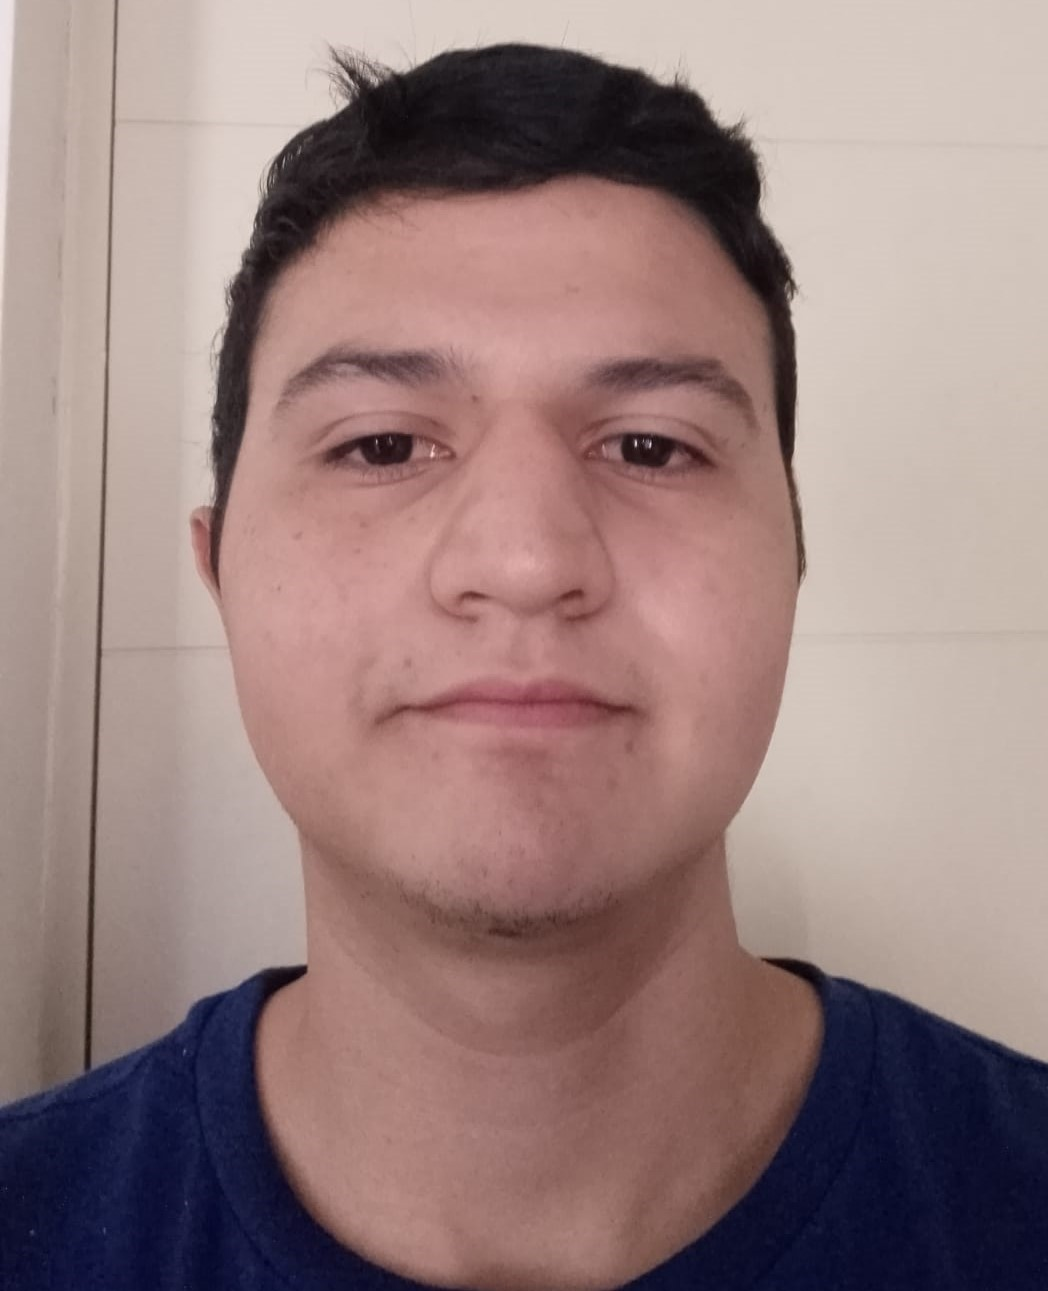
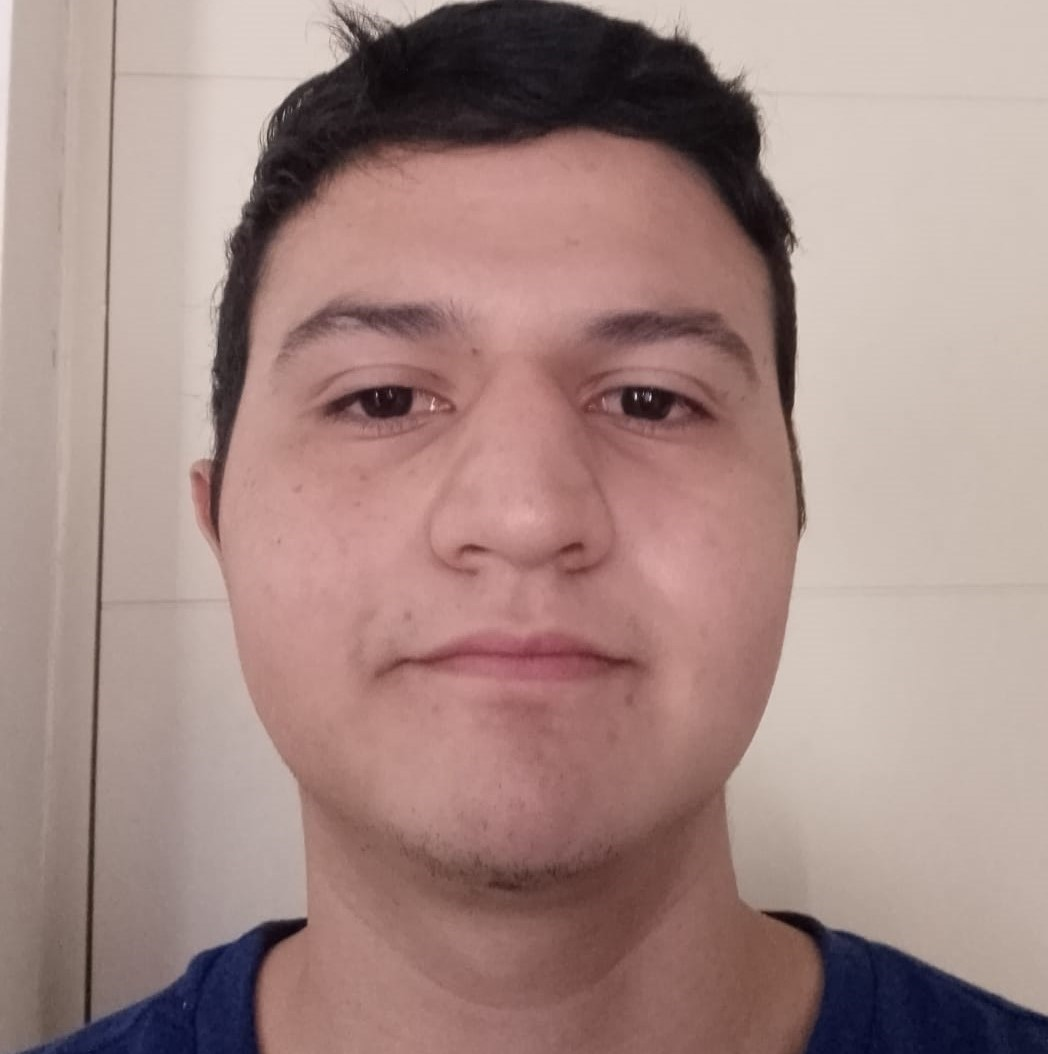
CV secciones terminadas

diff --git a/08-HTML/homework/CV/index.html b/08-HTML/homework/CV/index.html
@@ -1,37 +1,171 @@
 <!DOCTYPE html>
 <html>
-    <head>
-        <link rel="stylesheet" href="stylesCV.css">
-    </head>
-    <body>
-        <div id="header">
-            
-            <img src="" alt="">
-            
-            <h1 style="margin-bottom: 10px;">David Rangel</h1>
 
-            <span>Estudiante</span>
+<head>
+    <link rel="stylesheet" href="stylesCV.css">
+    <meta charset="utf-8">
+</head>
 
+<body>
+    <div id="header">
+
+        <div class="imagenCircular">
+            <img src="imagenes/Yo.jpeg" alt="">
+        </div>
+
+        <h1>David Rangel</h1>
+
+        <span>Estudiante</span>
+
+        <span>
+            <a href="mailto:david02rangel@gmail.com">david02rangel@gmail.com</a>
+        </span>
+    </div>
+
+
+    <nav>
+        <ul class="navegador">
+            <li><a href="#perfil">Descripción Personal</a></li>
+            <li><a href="#educacion">Educación</a></li>
+            <li><a href="#expLaborales">Experiencias Laborales</a></li>
+            <li><a href="#skills">Skills</a></li>
+            <li><a href="#hobbies">Hobbies</a></li>
+        </ul>
+    </nav>
+
+    <main>
+
+        <div id="quienSoy" class="seccion">
             <span>
-                <a href="mailto:david02rangel@gmail.com">david02rangel@gmail.com</a>
+                Soy estudiante del técnico superior Analista Programador de IPLeones, actualmente cursando en el 2do
+                año. Esta página es una documentación de mi trabajo y persona.
             </span>
         </div>
 
 
-        <nav>
-            <ul class="navegador">
-                <li><a href="">Descripción Personal</a></li>
-                <li><a href="">Educación</a></li>
-                <li><a href="">Experiencias Laborales</a></li>
-                <li><a href="">Skills</a></li>
-                <li><a href="">Hobbies</a></li>
-            </ul>
-        </nav>
+
+        <div id="perfil" class="seccion">
+            <div class="texto">
+                <h2>Descripción Personal</h2>
+                <p>
+                    Soy oriundo de Barquisimeto, Venezuela. Como persona, me identifico como alguien responsable,
+                    socialmente proactivo y eficiente. En mi área profesional, soy un programador junior orientado a los
+                    detalles que ofrece excelentes habilidades analíticas y la importante capacidad de funcionar bien
+                    tanto de forma independiente como en entornos de equipo de ritmo rápido.
+                </p>
+            </div>
+        </div>
+
+
+
+
+        <div id="educacion" class="seccion">
+            <div class="texto">
+                <h2>Formación Educativa</h2>
+                <p>
+                <ul>
+                    <li>Educación Media General en Ciencias, culminada en 2018. <br> Educativa Colegio Salto Ángel.
+                    </li>
+                    <br>
+                    <li>
+                        Técnico Superior Analista Programador, actualmente en 2do año.
+                        <br>Instituto Profesional Los Leones
+                    </li>
+                </ul>
+                </p>
+            </div>
+        </div>
+
+        <div id="expLaborales" class="seccion">
+            <div class="texto">
+                <h2>Experiencias Laborales</h2>
+                <p>
+                <ul>
+                    <li>Botillería Obatala, Barquisimeto, Venezuela.
+                        <ul>
+                            <li>
+                                febrero - noviembre de 2019.
+                            </li>
+                            <li>Funciones: atención al público,
+                                ayudante de almacén, realizar
+                                inventarios de mercancía y aseo.</li>
+                        </ul>
+                    </li>
+                    <br>
+                    <li>
+                        Subway Patio Centro, Santiago, Chile.
+                        <ul>
+                            <li>
+                                diciembre de 2021 - agosto de 2022.
+                            </li>
+                            <li>Funciones: atención al público,
+                                elaboración de productos,
+                                limpieza y orden del lugar de
+                                trabajo, realización de inventarios.</li>
+                        </ul>
+                    </li>
+                </ul>
+                </p>
+            </div>
+        </div>
+
+        <div id="skills" class="seccion">
+            <div class="texto">
+                <h2>Habilidades</h2>
+
+                <div class="texto flexBox">
+                    <div class="item">
+                        <h3>Nivel Avanzado <br> de Inglés</h3>
+                        <p>
+                            Capacidad para comprender mensajes orales largos de cualquier tipo, extraer conclusiones
+                            implícitas y hacer deducciones. Comprensión de instrucciones y artículos técnicos y
+                            especializados de campos no necesariamente conocidos.
+                        </p>
+                    </div>
+
+                    <div class="item">
+                        <h3>Análisis de Algoritmos</h3>
+                        <p>
+                            Capacidad de resolver los distintos problemas no triviales que están al alcance de los
+                            computadores. El análisis de la eficiencia y calidad de estos algoritmos, así como las
+                            principales técnicas de diseño de los mismos.
+                        </p>
+                    </div>
+
+                    <div class="item">
+                        <h3>Aptitudes <br> Sociales</h3>
+                        <p>
+                            Responsable, proactivo, dinámico, dominio de análisis, perseverancia y constancia en el área
+                            desempeñada. Capacidad de trabajar en equipo en un ambiente de resiliencia, aprendizaje
+                            activo, flexibilidad
+                        </p>
+                    </div>
+                </div>
+            </div>
+        </div>
+
+        <div id="hobbies" class="seccion">
+            <div class="texto">
+                <h2>Hobbies</h2>
+                <p>
+                <ul>
+                    <li>Música <br> The Beatles, Pearl Jam, Interpol, The Strokes, Radiohead...
+                    </li>
+                    <br>
+                    <li>
+                        Películas:
+                        <br>Grand Hotel Budapest, Matrix, The Batman (2022), The Shawshank Redemption, Django Unchained...
+                    </li>
+                </ul>
+                </p>
+            </div>
+        </div>
+    </main>
+
+    <footer>
         
-        
-        <br><br><br><br><br><br><br><br><br><br><br><br><br><br><br><br><br><br><br><br><br><br><br><br><br><br><br><br><br><br><br><br><br><br><br><br><br><br><br><br><br><br><br><br><br><br><br><br><br><br><br><br><br><br><br><br><br><br><br><br><br><br>
+    </footer>
 
+</body>
 
-
-    </body>
 </html>

diff --git a/08-HTML/homework/CV/stylesCV.css b/08-HTML/homework/CV/stylesCV.css
@@ -1,13 +1,41 @@
 body{
-    background-color: aqua;
+    background-color: white;
+    font-family:'Lucida Sans', 'Lucida Sans Regular', 'Lucida Grande', 'Lucida Sans Unicode', Geneva, Verdana, sans-serif;
+}
+
+h1{
+    margin-bottom: 10px;
+}
+
+h2{
+    font-size: 24px;
 }
 
 #header{
     text-align: center;
-    background-color: white;
+    background-color: whitesmoke;
     margin: 0;
     padding: 30px;
 }
+
+.imagenCircular{
+    height: 100px;
+    width: 100px;
+    margin: 0 auto;
+    
+}
+
+.imagenCircular > img{
+    height: 100%;
+    width: 100%;
+    border-radius: 100px;
+    box-shadow: 0px 0px 0px 5px rgba(212, 210, 210, 0.75);
+-webkit-box-shadow: 0px 0px 0px 5px rgba(212, 210, 210, 0.75);
+-moz-box-shadow: 0px 0px 0px 5px rgba(212, 210, 210, 0.75);
+    
+}
+
+
 
 #header > span{
     display: block;
@@ -39,12 +67,55 @@ nav{
 li > a{
     text-decoration: none;
     color: black;
-    padding: 16px 50px 16px 50px;
+    padding: 15px 50px 15px 50px;
     background-color:blanchedalmond;
 }
 
 li > a:hover{
-    background-color: black;
+    background-color: rgb(253, 243, 227);
 }
+
+#quienSoy{
+    height: 150px;
+    border-top-style: solid;
+    border-bottom-style: solid;
+}
+
+#quienSoy > span{
+    text-align: center;
+    font-size: 20px;
+    width: 850px;
+   
+}
+
+.seccion{
+    display: flex;
+    align-items: center;
+    justify-content: center;
+    margin: 20px 0px 20px 0px;
+}
+
+.flexBox{
+    display: flex;
+    align-items:center;
+    justify-content:space-evenly;
+}
+
+.item{
+    margin: 0px 20px 0px 20px;
+}
+
+h3{
+    text-align: center;
+}
+
+.texto{
+    width: 850px;
+}
+
+footer{
+    height: 200px;
+}
+
 
 
